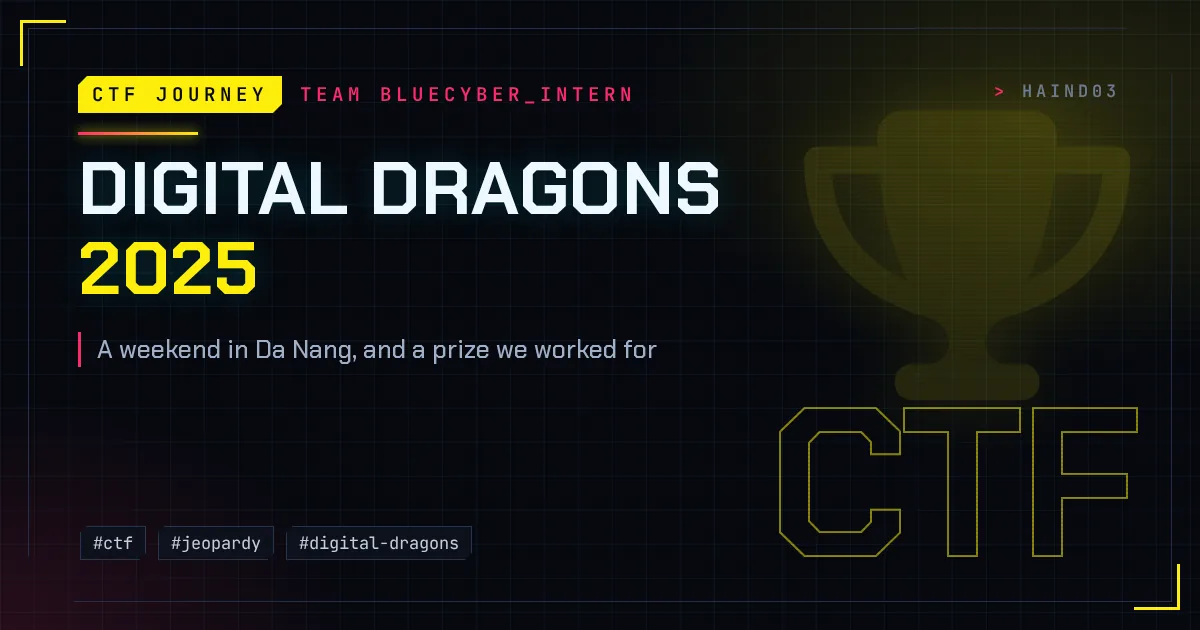
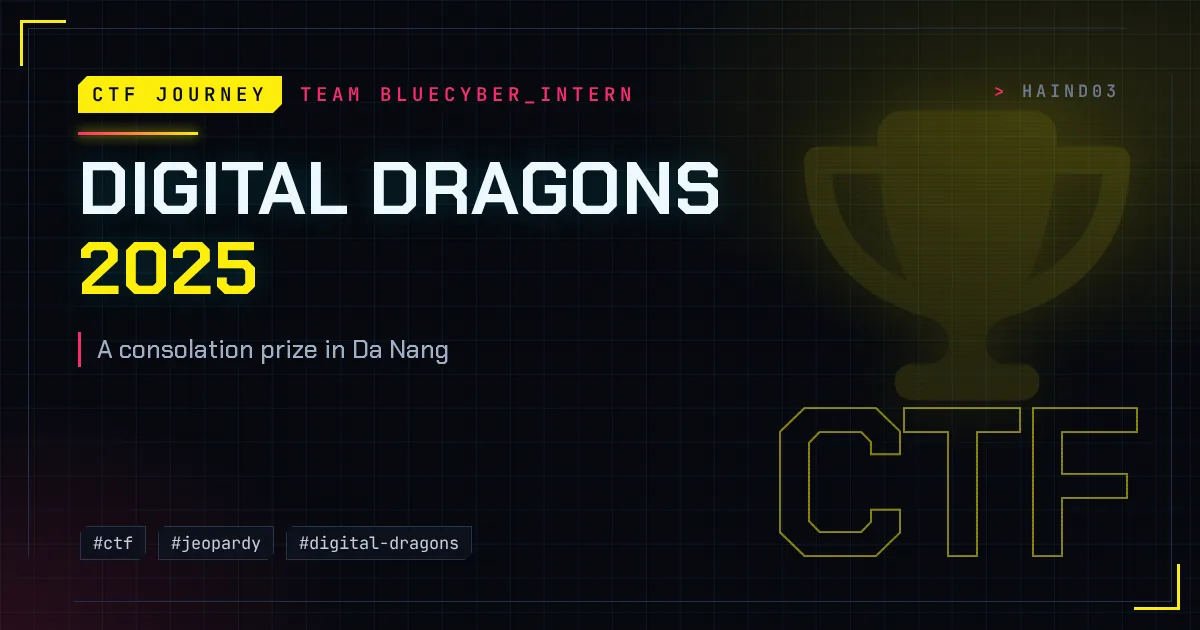
Fix CSCV and Digital Dragons details

Changed region(s): [[0.0925, 0.5429, 0.555, 0.573]]

diff --git a/_posts/2025-09-21-ctf-digital-dragons-2025.md b/_posts/2025-09-21-ctf-digital-dragons-2025.md
@@ -1,8 +1,8 @@
 ---
-title: "Digital Dragons 2025: a weekend in Da Nang, and a prize we worked for"
+title: "Digital Dragons 2025: a consolation prize in Da Nang"
 image:
   path: /assets/img/covers/ctf-digital-dragons-2025.webp
-  alt: "Digital Dragons 2025: a weekend in Da Nang, and a prize we worked for"
+  alt: "Digital Dragons 2025: a consolation prize in Da Nang"
 date: 2025-09-21 21:30:00 +0700
 categories: ["CTF Journey"]
 tags: [ctf, jeopardy, digital-dragons, bluecyber]
@@ -13,18 +13,12 @@ In September 2025 I went to Da Nang for Digital Dragons, The Cybersecurity Chall
 
 Big thanks to BlueCyber for sponsoring us. The company covered the trip so we could just go there and play. I learned a lot of what I know about malware and threat hunting at BlueCyber, first as an intern and then full time, so playing under the company's name felt right.
 
-Digital Dragons is a Jeopardy CTF organized by evvolabs, VKU and the National Cybersecurity Association (NCA). The challenges were meant to look like real-world exploitation, and the official name is literally a "talent search" contest, so the level was decent.
+Digital Dragons is a Jeopardy CTF organized by evvolabs and VKU. The challenges were written by CyberJutsu, so the quality was pretty good.
 
 ![The closing ceremony of Digital Dragons 2025 at VKU, Da Nang](/assets/img/posts/digital-dragons-2025/closing-ceremony.webp)
 _Closing ceremony at VKU, September 21, 2025._
 
-The contest went the way Jeopardy usually goes. The first part is fast, everyone clears the easy ones in their own category. After that it gets slower and harder, and you have to decide whether to keep going on something you've been stuck on for a while or switch to help someone else. We made a few wrong calls there, like most teams do.
-
-Near the end we were somewhere around the edge of the prize places, so we kept refreshing the scoreboard and kept pushing until time ran out. We weren't sure if we'd made it.
-
-We did. Getting the consolation prize at the ceremony the next day was mostly relief, then happiness.
-
 ![The consolation prize board from Digital Dragons 2025](/assets/img/posts/digital-dragons-2025/consolation-prize.webp)
 _Consolation prize, Digital Dragons 2025._
 
-Not the biggest prize, but a nice weekend, and a reminder that I still need to get better at knowing when to drop a challenge. Thanks again to BlueCyber.
+All in all we got a trip to Da Nang out of it and didn't go home empty-handed. Thanks again to BlueCyber.

diff --git a/_posts/2025-11-15-ctf-cscv-2025.md b/_posts/2025-11-15-ctf-cscv-2025.md
@@ -9,17 +9,19 @@ tags: [ctf, jeopardy, cscv, ptit]
 render_with_liquid: false
 ---
 
-CSCV 2025 (Cybersecurity Student Contest Vietnam) is the national student security contest run by the National Cybersecurity Association (NCA), with the Ministry of Public Security and the Ministry of Education and Training as patrons. That year each school could send one team per bracket. PTIT had PTIT.CBS in one bracket, and I played Bracket B, the Jeopardy one, with team PTIT.0verflow. We got second prize.
+CSCV 2025 (Cybersecurity Student Contest Vietnam) is the national student security contest run by the National Cybersecurity Association (NCA), with the Ministry of Public Security and the Ministry of Education and Training as patrons. I played Bracket B, the Jeopardy one, with team PTIT.0verflow. We got second prize.
 
 ![The PTIT.0verflow team in front of the CSCV 2025 contest page](/assets/img/posts/cscv-2025/team.webp)
 _Team PTIT.0verflow._
 
-In the qualifying round we were in the top 10, in 10th place with 1,815 points. Places 6 to 10 all ended on the same 1,815.
+In the qualifying round we finished 10th with 1,815 points, which got us into the final.
 
 ![The CSCV 2025 qualifying round top 10](/assets/img/posts/cscv-2025/qualifier-top10.webp)
 _Qualifying round top 10._
 
-The Bracket B results came out on November 15. UIT-Reze got first prize, KMA.0xC4ng and PTIT.0verflow got second, and Breaking Bad, KMA.UniverSea and L3_u5th got third. Bracket B had 20 teams in the final, including one from Institut Teknologi Bandung in Indonesia, and there were 16 prizes in total.
+The final had 20 teams in Bracket B. When the scoreboard froze we were 6th, and for the rest of the contest we had no idea where we really stood. We just kept solving.
+
+When the results came out on November 15 we had moved up to 3rd on the board, which meant second prize. Going from 6th at the freeze to 3rd after it was the best moment of the day for me.
 
 ![The CSCV 2025 Bracket B final results, with PTIT.0verflow highlighted with a second prize](/assets/img/posts/cscv-2025/final-results.webp)
 _Bracket B results, November 15, 2025. PTIT.0verflow is circled._
